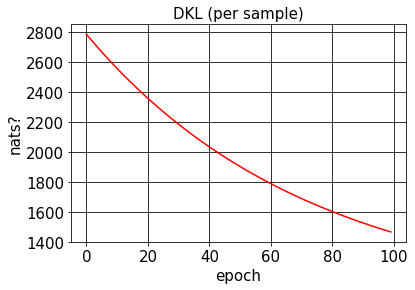
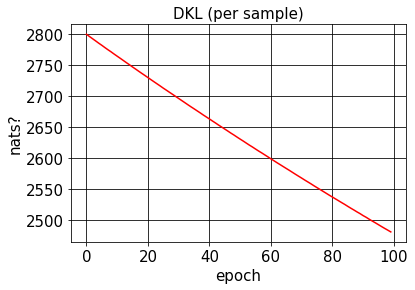
Add files via upload

Changed region(s): [[0.0578, 0.3724, 0.9542, 0.869], [0.0578, 0.0931, 0.9831, 0.3724]]

diff --git a/contrast.py b/contrast.py
@@ -126,10 +126,10 @@ print("predict SGLD")
 
 ########################################################################################################################
 #pSGLD
-image_trans_size_pSGLD = 64
-batch_size_pSGLD = 20
+image_trans_size_pSGLD = 128
+batch_size_pSGLD = 40
 nb_epochs_pSGLD = 100
-lr_pSGLD = 0.00001
+lr_pSGLD = 0.00005
 prior_sig_pSGLD = 0.1
 models_dir_pSGLD = 'models_pSGLD_COVID150'
 results_dir_pSGLD = 'results_pSGLD_COVID150'
@@ -154,8 +154,8 @@ print("predict pSGLD")
 ########################################################################################################################
 #SGHMC
 
-image_trans_size_SGHMC = 64
-batch_size_SGHMC = 50
+image_trans_size_SGHMC = 128
+batch_size_SGHMC = 40
 nb_epochs_SGHMC = 100
 lr_SGHMC = 0.001
 prior_sig_SGHMC = 0.1
@@ -182,9 +182,9 @@ model_SGHMC = TP(image_trans_size_SGHMC, batch_size_SGHMC, nb_epochs_SGHMC, lr_S
 
 
 image_trans_size_BBB = 128
-batch_size_BBB = 20
+batch_size_BBB = 40
 nb_epochs_BBB = 100
-lr_BBB = 0.00001
+lr_BBB = 0.00005
 prior_sig_BBB = 0.1
 models_dir_BBB = 'models_BBB_COVID150'
 results_dir_BBB = 'results_BBB_COVID150'
@@ -296,7 +296,11 @@ ROC_SGLD.threshold_list_train()
 fpr_SGLD = ROC_SGLD.fpr_eval()
 tpr_SGLD = ROC_SGLD.tpr_eval()
 
+fpr_SGLD_train = ROC_SGLD.fpr_eval_train()
+tpr_SGLD_train = ROC_SGLD.tpr_eval_train()
+
 cd_SGLD = ROC_SGLD.crit_point()
+cd_SGLD_test = ROC_SGLD.crit_point_test()
 C2_SGLD, cd_range_SGLD = ROC_SGLD.confusion_matrix_plot_crit()
 
 tnr_SGLD = ROC_SGLD.tnr_eval()
@@ -306,6 +310,7 @@ f1_SGLD = ROC_SGLD.f1_eval()
 mcc_SGLD, mcc_list_SGLD = ROC_SGLD.mcc_eval()
 
 roc_auc_SGLD = metrics.auc(fpr_SGLD, tpr_SGLD)
+roc_auc_SGLD_train = metrics.auc(fpr_SGLD_train, tpr_SGLD_train)
 print(roc_auc_SGLD)
 
 print(C2_SGLD)
@@ -343,7 +348,11 @@ ROC_pSGLD.threshold_list_train()
 fpr_pSGLD = ROC_pSGLD.fpr_eval()
 tpr_pSGLD = ROC_pSGLD.tpr_eval()
 
+fpr_pSGLD_train = ROC_pSGLD.fpr_eval_train()
+tpr_pSGLD_train = ROC_pSGLD.tpr_eval_train()
+
 cd_pSGLD = ROC_pSGLD.crit_point()
+cd_pSGLD_test = ROC_pSGLD.crit_point_test()
 C2_pSGLD, cd_range_pSGLD = ROC_pSGLD.confusion_matrix_plot_crit()
 
 tnr_pSGLD = ROC_pSGLD.tnr_eval()
@@ -355,6 +364,7 @@ mcc_pSGLD, mcc_list_pSGLD = ROC_pSGLD.mcc_eval()
 a_pSGLD, b_pSGLD = mcc_detail(mcc_list_pSGLD)
 
 roc_auc_pSGLD = metrics.auc(fpr_pSGLD, tpr_pSGLD)
+roc_auc_pSGLD_train = metrics.auc(fpr_pSGLD_train, tpr_pSGLD_train)
 print(roc_auc_pSGLD)
 
 print(C2_pSGLD)
@@ -389,7 +399,11 @@ ROC_SGHMC.threshold_list_train()
 fpr_SGHMC = ROC_SGHMC.fpr_eval()
 tpr_SGHMC = ROC_SGHMC.tpr_eval()
 
+fpr_SGHMC_train = ROC_SGHMC.fpr_eval_train()
+tpr_SGHMC_train = ROC_SGHMC.tpr_eval_train()
+
 cd_SGHMC = ROC_SGHMC.crit_point()
+cd_SGHMC_test = ROC_SGHMC.crit_point_test()
 C2_SGHMC, cd_range_SGHMC = ROC_SGHMC.confusion_matrix_plot_crit()
 
 tnr_SGHMC = ROC_SGHMC.tnr_eval()
@@ -401,6 +415,7 @@ mcc_SGHMC, mcc_list_SGHMC = ROC_SGHMC.mcc_eval()
 a_SGHMC, b_SGHMC = mcc_detail(mcc_list_SGHMC)
 
 roc_auc_SGHMC = metrics.auc(fpr_SGHMC, tpr_SGHMC)
+roc_auc_SGHMC_train = metrics.auc(fpr_SGHMC_train, tpr_SGHMC_train)
 print(roc_auc_SGHMC)
 
 print(C2_SGHMC)
@@ -442,8 +457,11 @@ ROC_BBB.threshold_list_train()
 fpr_BBB = ROC_BBB.fpr_eval()
 tpr_BBB = ROC_BBB.tpr_eval()
 
+fpr_BBB_train = ROC_BBB.fpr_eval_train()
+tpr_BBB_train = ROC_BBB.tpr_eval_train()
 
 cd_BBB = ROC_BBB.crit_point()
+cd_BBB_test = ROC_BBB.crit_point_test()
 C2_BBB, cd_range_BBB = ROC_BBB.confusion_matrix_plot_crit()
 
 tnr_BBB = ROC_BBB.tnr_eval()
@@ -455,6 +473,7 @@ mcc_BBB, mcc_list_BBB = ROC_BBB.mcc_eval()
 a_BBB, b_BBB = mcc_detail(mcc_list_BBB)
 
 roc_auc_BBB = metrics.auc(fpr_BBB, tpr_BBB)
+roc_auc_BBB_train = metrics.auc(fpr_BBB_train, tpr_BBB_train)
 print(roc_auc_BBB)
 
 print(C2_BBB)
@@ -570,20 +589,20 @@ for i in ot.values():
 
 toot = {}
 
-print('//////////////////////////////fpr_BBB', fpr_BBB,
-      '//////////////////////////////tpr_BBB', tpr_BBB,
-      '//////////////////////////////cd_BBB', cd_BBB,
-      '//////////////////////////////C2_BBB', C2_BBB,
-      '//////////////////////////////cd_range_BBB', cd_range_BBB,
-      '//////////////////////////////tnr_BBB', tnr_BBB,
-      '//////////////////////////////ppv_BBB', ppv_BBB,
-      '//////////////////////////////acc_BBB', acc_BBB,
-      '//////////////////////////////f1_BBB', f1_BBB,
-      '//////////////////////////////mcc_BBB', mcc_BBB,
-      '//////////////////////////////mcc_list_BBB', mcc_list_BBB,
-      '//////////////////////////////a_BBB', a_BBB,
-      '//////////////////////////////b_BBB', b_BBB,
-      '//////////////////////////////roc_auc_BBB', roc_auc_BBB)
+# print('//////////////////////////////fpr_BBB', fpr_BBB,
+#       '//////////////////////////////tpr_BBB', tpr_BBB,
+#       '//////////////////////////////cd_BBB', cd_BBB,
+#       '//////////////////////////////C2_BBB', C2_BBB,
+#       '//////////////////////////////cd_range_BBB', cd_range_BBB,
+#       '//////////////////////////////tnr_BBB', tnr_BBB,
+#       '//////////////////////////////ppv_BBB', ppv_BBB,
+#       '//////////////////////////////acc_BBB', acc_BBB,
+#       '//////////////////////////////f1_BBB', f1_BBB,
+#       '//////////////////////////////mcc_BBB', mcc_BBB,
+#       '//////////////////////////////mcc_list_BBB', mcc_list_BBB,
+#       '//////////////////////////////a_BBB', a_BBB,
+#       '//////////////////////////////b_BBB', b_BBB,
+#       '//////////////////////////////roc_auc_BBB', roc_auc_BBB)
 
 ThresSplitOutputTable = []
 # for i in range(len(b)):
@@ -650,20 +669,32 @@ if os.path.exists(completeName):
 tsotdf.to_csv(completeName)
 ########################################################################################################################
 
-
+threshold5 = int(len(fpr_SGLD)/2)
 
 plt.figure(20)
 plt.plot(start, end)
 
-plt.plot(fpr_SGLD, tpr_SGLD, lw=1, label="sgld, area=%0.2f)" % (roc_auc_SGLD))
-plt.plot(fpr_pSGLD, tpr_pSGLD, lw=1, label="psgld, area=%0.2f)" % (roc_auc_pSGLD))
-plt.plot(fpr_SGHMC, tpr_SGHMC, lw=1, label="SGHMC, area=%0.2f)" % (roc_auc_SGHMC))
-plt.plot(fpr_BBB, tpr_BBB, lw=1, label="bbb, area=%0.2f)" % (roc_auc_BBB))
+plt.plot(fpr_SGLD, tpr_SGLD, lw=1, color='red', label="SGLD, area=%0.2f)" % (roc_auc_SGLD))
+plt.plot(fpr_pSGLD, tpr_pSGLD, lw=1, color='blue', label="pSGLD, area=%0.2f)" % (roc_auc_pSGLD))
+plt.plot(fpr_SGHMC, tpr_SGHMC, lw=1, color='green', label="SGHMC, area=%0.2f)" % (roc_auc_SGHMC))
+plt.plot(fpr_BBB, tpr_BBB, lw=1, color='orange', label="BBB, area=%0.2f)" % (roc_auc_BBB))
 
 plt.plot(fpr_SGLD[cd_SGLD], tpr_SGLD[cd_SGLD], 'o', color='red')
-plt.plot(fpr_pSGLD[cd_pSGLD], tpr_pSGLD[cd_pSGLD], 'o', color='red')
-plt.plot(fpr_SGHMC[cd_SGHMC], tpr_SGHMC[cd_SGHMC], 'o', color='red')
-plt.plot(fpr_BBB[cd_BBB], tpr_BBB[cd_BBB], 'o', color='red')
+plt.plot(fpr_pSGLD[cd_pSGLD], tpr_pSGLD[cd_pSGLD], 'o', color='blue')
+plt.plot(fpr_SGHMC[cd_SGHMC], tpr_SGHMC[cd_SGHMC], 'o', color='green')
+plt.plot(fpr_BBB[cd_BBB], tpr_BBB[cd_BBB], 'o', color='orange')
+
+
+plt.plot(fpr_SGLD[cd_SGLD_test], tpr_SGLD[cd_SGLD_test], '*', color='red')
+plt.plot(fpr_pSGLD[cd_pSGLD_test], tpr_pSGLD[cd_pSGLD_test], '*', color='blue')
+plt.plot(fpr_SGHMC[cd_SGHMC_test], tpr_SGHMC[cd_SGHMC_test], '*', color='green')
+plt.plot(fpr_BBB[cd_BBB_test], tpr_BBB[cd_BBB_test], '*', color='orange')
+
+
+plt.plot(fpr_SGLD[threshold5], tpr_SGLD[threshold5], '^', color='red')
+plt.plot(fpr_pSGLD[threshold5], tpr_pSGLD[threshold5], '^', color='blue')
+plt.plot(fpr_SGHMC[threshold5], tpr_SGHMC[threshold5], '^', color='green')
+plt.plot(fpr_BBB[threshold5], tpr_BBB[threshold5], '^', color='orange')
 
 plt.xlim([0.00, 1.0])
 plt.ylim([0.00, 1.0])
@@ -671,6 +702,25 @@ plt.xlabel("False Positive Rate")
 plt.ylabel("True Positive Rate")
 plt.title("ROC")
 #plt.legend(['sgld','psgld','bbb'])
+plt.legend(loc="lower right")
+
+plt.figure(21)
+plt.plot(start, end)
+plt.plot(fpr_SGLD_train, tpr_SGLD_train, color='red', label="SGLD, area=%0.2f)" % (roc_auc_SGLD_train))
+plt.plot(fpr_pSGLD_train, tpr_pSGLD_train, color='blue', label="pSGLD, area=%0.2f)" % (roc_auc_pSGLD_train))
+plt.plot(fpr_SGHMC_train, tpr_SGHMC_train, color='green', label="SGHMC, area=%0.2f)" % (roc_auc_SGHMC_train))
+plt.plot(fpr_BBB_train, tpr_BBB_train, color='orange', label="BBB, area=%0.2f)" % (roc_auc_BBB_train))
+
+plt.plot(fpr_SGLD_train[cd_SGLD], tpr_SGLD_train[cd_SGLD], 'o', color='red')
+plt.plot(fpr_pSGLD_train[cd_pSGLD], tpr_pSGLD_train[cd_pSGLD], 'o', color='blue')
+plt.plot(fpr_SGHMC_train[cd_SGHMC], tpr_SGHMC_train[cd_SGHMC], 'o', color='green')
+plt.plot(fpr_BBB_train[cd_BBB], tpr_BBB_train[cd_BBB], 'o', color='orange')
+
+plt.xlim([0.00, 1.0])
+plt.ylim([0.00, 1.0])
+plt.xlabel("False Positive Rate")
+plt.ylabel("True Positive Rate")
+plt.title("ROC for training set")
 plt.legend(loc="lower right")
 
 plt.show()
